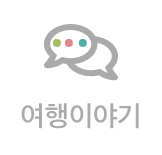
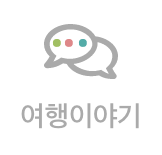
은지작업 (아이콘 NAV 추가작업)

diff --git a/teamProject/src/main/webapp/resources/css/Nav.css b/teamProject/src/main/webapp/resources/css/Nav.css
@@ -3,7 +3,7 @@
 #navigation {z-index:5000; width:100%; margin-bottom:7px;}
 #navigation .bar {box-shadow: 0px 3px 6px #00000029; text-align:center;}
 #navigation .row {max-width:1100px; margin:auto;}
-#navigation img {max-width:64px;}
+#navigation img {margin-top:4px; max-width:64px;}
 @media all and (max-width: 576px) {
 	#navigation {position:fixed; bottom:0px; margin-bottom:0px;}
 	#navigation .bar {box-shadow: 0px -3px 6px #00000029;}

diff --git a/teamProject/src/main/webapp/resources/css/Nav2.css b/teamProject/src/main/webapp/resources/css/Nav2.css
@@ -3,7 +3,7 @@
 #navigation {z-index:5000; width:100%; bottom:0;}
 #navigation .bar {box-shadow: 0px -3px 6px #00000029; text-align:center;}
 #navigation .row {max-width:1100px; margin:auto;}
-#navigation img {max-width:64px;}
+#navigation img {margin-top:4px; max-width:64px;}
 @media all and (max-width: 576px) {
 	#navigation {position:fixed; bottom:0px; margin-bottom:0px;}
 	#navigation .bar {box-shadow: 0px -3px 6px #00000029;}
